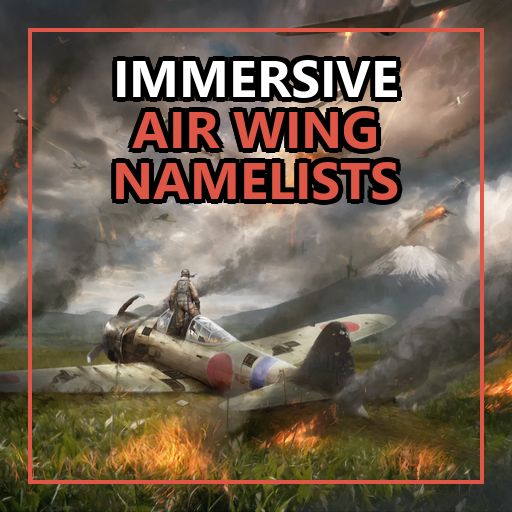
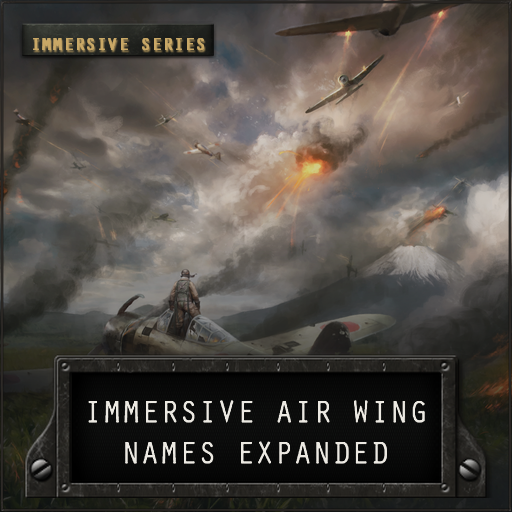
chore(thumbnail): render the thumbnail from the Manager's house template
Every mod of the Manager now shares one thumbnail layout, drawn with the
game's own interface art and Orator font by the Manager's
Scripts/Showcase/New-HoiThumbnail.ps1; this mod keeps its former
background (load_ncns_jap) in assets/thumbnail.json. The guide's section
7 and the AGENTS.md read-when row now point at that tool instead of the
retired generator command and its colour taxonomy.

Tests: tests\Run-Tests.ps1 -Changed: 183 Passed, 0 Failed, 1 Skipped
(changed: all suites); Invoke-ModAction.ps1 -Action Validate succeeded.

diff --git a/docs/iawn-agent-guide.md b/docs/iawn-agent-guide.md
@@ -82,25 +82,7 @@ Always validate changes before completing tasks:
     git status
     ```
 
-## 7. Branding & Thumbnail Standards
-- **Namelist Mod Suite Visual Taxonomy**:
-  - **Ground / Divisions** (*Immersive Namelists Expanded*): `--theme amber` (`#E5A93C`)
-  - **Naval / Ships** (*Immersive Ship Names Expanded*): `--theme cyan` (`#63B3ED`)
-  - **Aviation / Air Wings** (*Immersive Air Wing Namelists*): `--theme paradox_red` (`#DE5646`), accenting `AIR WING`
-- **Asset Directory Invariants**:
-  - `assets/thumbnail_raw.png`: Original, uncompressed high-resolution artwork (1920×1440).
-  - `assets/thumbnail_master.png`: Cropped 512×512 branded master.
-  - `thumbnail.png`: Active in-game/Steam Workshop distribution asset (< 1 MB).
-- **Thumbnail Generation**: use the `mod-thumbnail-generator` skill with the parameters of the command below, or run the generator directly:
-  ```powershell
-  python "W:\Antigravity\Mod Thumbnail Generator\generate_branding.py" `
-    --descriptor "descriptor.mod" `
-    --title "IMMERSIVE`nAIR WING`nNAMELISTS" `
-    --bg-image "assets\thumbnail_raw.png" `
-    --theme paradox_red `
-    --accent-match "AIR WING" `
-    --text-pos top `
-    --hoi4 `
-    --out-dirs ".,assets" `
-    --preview-filename "thumbnail.png"
-  ```
+## 7. Thumbnail
+- `thumbnail.png` is rendered by the Manager's `Scripts/Showcase/New-HoiThumbnail.ps1` (skill `hoi4-workshop-showcase`) in the template every mod of the tree shares. The Immersive Series label and its accent come from the Manager's `Config/thumbnail-families.json`; this mod's background (a loading screen) is in `assets/thumbnail.json`.
+- Preview with `New-HoiThumbnail.ps1 "Immersive Air Wing Names Expanded"`, show the owner, write it with `-Apply` on the owner's word, then `.\build.ps1 -ValidateOnly`.
+- `assets/thumbnail_raw.png` and `assets/thumbnail_master.png` were inputs of the old generator and are no longer used.

diff --git a/AGENTS.md b/AGENTS.md
@@ -19,7 +19,7 @@ Shared rules for every mod in this tree (file encodings, build commands, engine 
 | Task | Read |
 |---|---|
 | Authoring a nation | `docs/iawn-agent-guide.md` sections 1 to 4 |
-| Thumbnail or branding | guide section 7, with the `mod-thumbnail-generator` skill |
+| Thumbnail | guide section 7, with the Manager's `New-HoiThumbnail.ps1` (skill `hoi4-workshop-showcase`) |
 
 ## Engine Knowledge
 - Engine facts live in the Modding Manager's register, reached through the user-level `hoi4-modding-knowledge` skill: search it before a new kind of file and before asking for a game launch, cite ids here, never write a fact into this repository.
